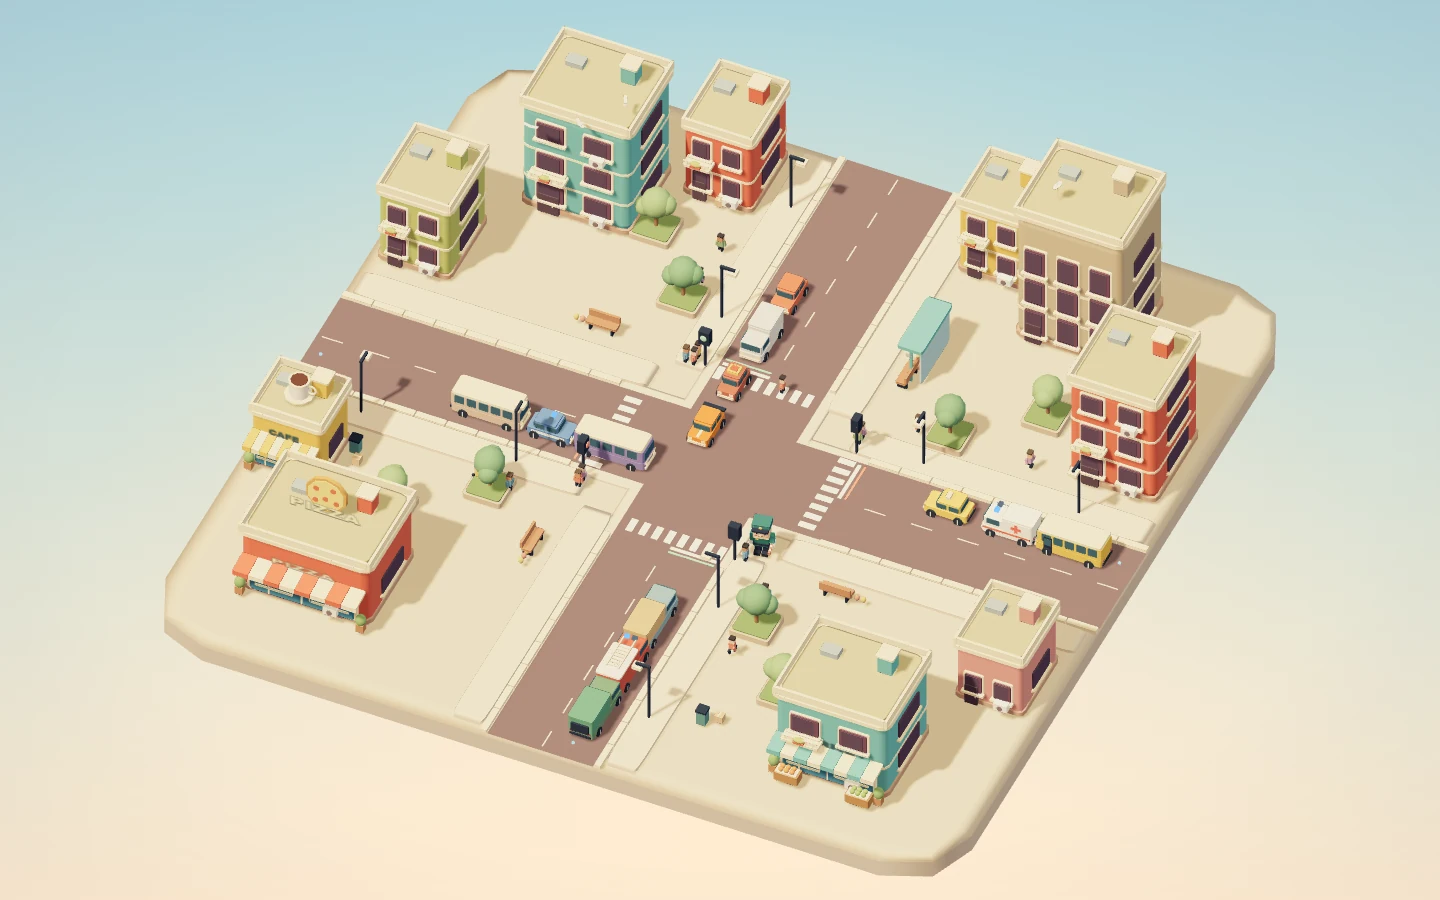
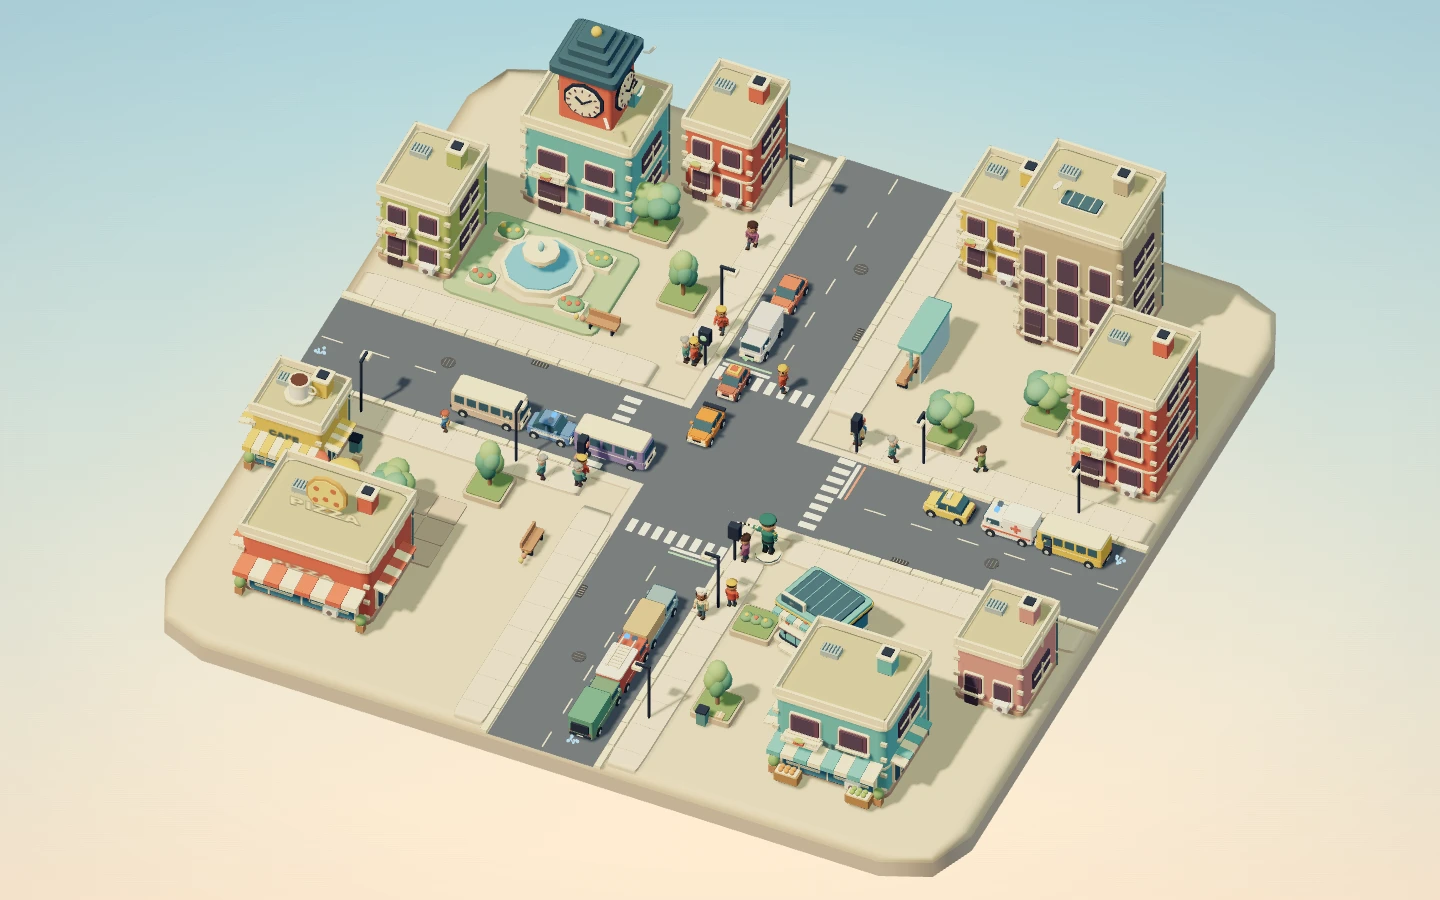
Show the live town, mentor conversation and character close-ups

diff --git a/ART_STYLE_GUIDE.md b/ART_STYLE_GUIDE.md
@@ -21,11 +21,17 @@
 
 Автомобили: вращение колёс, поворот передних колёс, наклон и клевок корпуса, подвеска, стоп-сигналы, поворотники, маяки. Регулировщик: короткие GO/STOP, переключение внимания, свисток, опасность, облегчение, столкновение, радость, моргание и ночная поза. Пешеходы шагают и покачиваются в ожидании; декоративные прохожие и птицы не участвуют в правилах игры. При паузе транспорт заморожен; персонаж может мягко дышать. UI уважает prefers-reduced-motion.
 
+## Фигурки и вывеска
+
+Силуэт регулировщика задают форменная фуражка с козырьком, погоны, портупея и длинный полосатый жезл. Цвет формы меняется вместе с купленной расцветкой. У каждого из шести горожан есть собственный наряд и примета профессии или возраста. Голова и одежда слеплены объёмными деталями. Руки и ноги поворачиваются относительно плеч и бёдер. Для Low собраны облегчённые модели.
+
+Вывеска Traffino выполнена как эмалированная уличная табличка. В карточках режимов показаны машины из игрового гаража. Ранние изображения эмблемы и автомобильного листа сохранены в исходниках. Разговор с Миро проходит на фоне работающего перекрёстка. Реплика, ответ игрока и начало смены доступны с клавиатуры и мышью.
+
 ## Происхождение ассетов
 
 `miro-portrait.jpg` — отдельная иллюстрация Миро для инструктажа и рации. Создана с помощью ImageGen для Traffino. Тёмная тушь, шероховатая печать и выцветшая бирюза связывают портрет с городской служебной карточкой. У персонажа на перекрёстке те же брови, усы и фуражка.
 
-`junior-vehicles.png` и `junior-shops.png` взяты из предоставленного пользователем `junior_city_2d_image_pack.zip`: автомобили — карточки режимов, магазины — карточки районов. Остальные листы служат референсами для собственных 3D-моделей. В README архива отдельная лицензия не указана.
+`junior-vehicles.png` и `junior-shops.png` взяты из предоставленного пользователем `junior_city_2d_image_pack.zip`: магазины оформляют карточки районов. Автомобильный лист использовался в прототипе. Остальные листы служат референсами для собственных 3D-моделей. В README архива отдельная лицензия не указана.
 
 Nunito: [Google Fonts](https://github.com/google/fonts/tree/main/ofl/nunito), SIL OFL 1.1. Лицензия включена в `public/assets/Nunito-OFL.txt` и архив игры. Внешней загрузки шрифта во время игры нет.
 

diff --git a/STEAM_AUDIT.md b/STEAM_AUDIT.md
@@ -25,4 +25,4 @@
 ![Ратуша, фонтан и площадь Зелёного квартала](screenshots/steam-garden.png)
 ![Две гавани и грузовой причал](screenshots/steam-harbor.png)
 
-Для этапа «Первый пост» на Windows x64 прошли 45 модульных тестов, включая перенос прежних сохранений и прохождение обеих аттестаций. Визуальный прогон прошёл 18 проверок. В контрольной сцене SwiftShader отрисовал 30 648 треугольников на Low и 163 610 на Medium. В упакованном EXE проверены портрет и подсказки с первого кадра, начисление жалованья, условия аттестации и восстановление закреплённого навыка и медали после перезапуска. Темп развития ещё нужно проверить с игроками.
+На Windows x64 прошли 46 модульных тестов, включая перенос сохранений, обе аттестации и сборку суставных моделей. Визуальный прогон выполнил 18 проверок. В контрольной сцене SwiftShader отрисовал 78 320 треугольников за 75 вызовов на Low и 364 286 за 81 вызов на Medium. В автономном приложении проверяются выбор ответа Миро, управление первым сигналом, начисление жалованья и сохранение повышения после перезапуска. Фактическая частота кадров на целевых видеокартах и темп развития для новых игроков требуют плейтеста.

diff --git a/README.md b/README.md
@@ -24,9 +24,13 @@ npm run dev
 
 Откройте [локальную игру](http://127.0.0.1:4180). Тесты запускаются командой `npm test`.
 
+Чтобы рассмотреть персонажей вблизи, во время смены нажмите Esc, откройте «Фоторежим» и в поле «В кадре» выберите «Регулировщик» или «Прохожие». Перед первой сменой можно расспросить Миро об управлении и жалованье.
+
 ## Скриншоты
 
 ![Инструктаж Миро перед первой сменой](screenshots/mentor-briefing.png)
 ![Главное меню Traffino](screenshots/menu.webp)
+![Регулировщик подаёт сигнал](screenshots/officer.webp)
+![Горожане у перехода](screenshots/residents.webp)
 ![Городской перекрёсток](screenshots/city.webp)
 ![Игра на мобильном экране](screenshots/mobile.webp)
